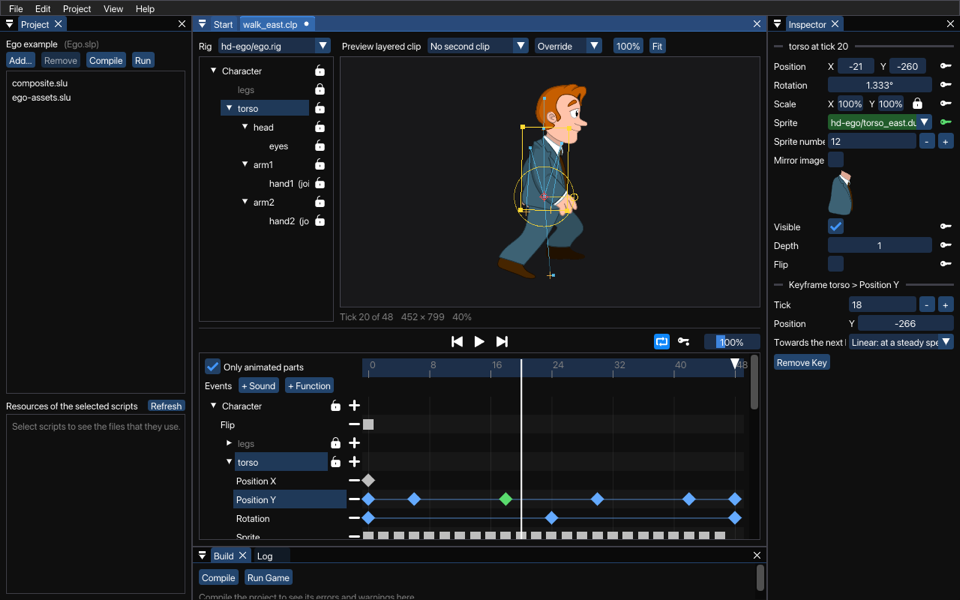
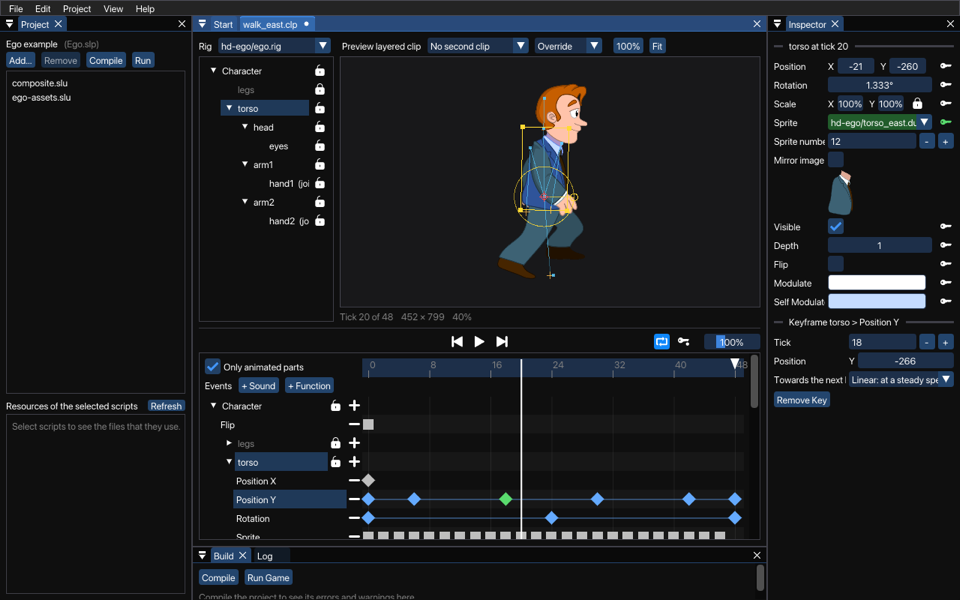
Document the colours of parts
The constants, clipKey, setPartProperty, Composite Characters and both
editors' pages describe Modulate and Self Modulate; the editors' pictures
are taken again, the animation editor's with a tinted torso.

Changed region(s): [[0.7812, 0.45, 1.0, 0.69], [0.5625, 0.21, 0.5938, 0.3], [0.5312, 0.3, 0.5938, 0.36]]

diff --git a/doc/SLUDGEDevKitHelp/About_the_SLUDGE_Animation_Editor.html b/doc/SLUDGEDevKitHelp/About_the_SLUDGE_Animation_Editor.html
@@ -45,7 +45,7 @@ The tracks are in the order of the rig's parts, each part under the part it is a
 </P>
 
 <P>
-The plus by a part adds a track to it: Position (a track for X and one for Y), Rotation, Scale (a track for X and one for Y), Sprite, Visible, Depth or Flip. The minus by a track removes it, with its keys. Clips made by scripts may have a Scale (both) track, which scales X and Y together (PART_SCALE of <a href="clipKey.html">clipKey</a>); the editor keeps it, and you can edit its keys.
+The plus by a part adds a track to it: Position (a track for X and one for Y), Rotation, Scale (a track for X and one for Y), Sprite, Visible, Depth, Flip, Modulate or Self Modulate. Modulate and Self Modulate each show as one row, whose keys are filled with their colour: underneath, they are a track each for red, green, blue and alpha (PART_MODULATE_R and so on, of <a href="clipKey.html">clipKey</a>), which the row keys, moves, copies and removes together. The minus by a track removes it, with its keys. Clips made by scripts may have a Scale (both) track, which scales X and Y together (PART_SCALE of <a href="clipKey.html">clipKey</a>); the editor keeps it, and you can edit its keys.
 </P>
 
 <P>
@@ -55,7 +55,7 @@ Tracks of parts that the rig doesn't have are at the end, in orange. They do not
 <H3>Keying a part</H3>
 
 <P>
-Put the playhead where you want a key, and select the part. The Inspector shows what of it you can key, as the clip has it at the playhead: Position, Rotation, Scale, Sprite, Visible, Depth and Flip. Where the clip doesn't key something, it is as in the rig: the part shows its own sprite, for example. Changing these never changes the rig itself.
+Put the playhead where you want a key, and select the part. The Inspector shows what of it you can key, as the clip has it at the playhead: Position, Rotation, Scale, Sprite, Visible, Depth, Flip, Modulate and Self Modulate. Click a colour to change it; its key button keys all four of its components (see the <a href="About_the_SLUDGE_Character_Creator.html">Character Creator</a> for what the colours do). Where the clip doesn't key something, it is as in the rig: the part shows its own sprite, for example. Changing these never changes the rig itself.
 </P>
 
 <P>
@@ -98,7 +98,7 @@ Click the name of a track to make it the current one, and press K to key it at t
 <H3>Values and easing</H3>
 
 <P>
-Below the selected part, the Inspector shows the selected key, under Keyframe and its part and property: its tick, its value and, for position, rotation and scale, its easing. The easing says how the value goes from this key to the next one: Step holds it until the next key, Linear goes at a steady speed, and In and out starts and ends slowly. The colours of the keys show their easing, and so do the lines between them: grey for Step, blue for Linear, and pink for In and out. Sprite, visibility, depth and flip keys always step.
+Below the selected part, the Inspector shows the selected key, under Keyframe and its part and property: its tick, its value and, for position, rotation, scale and the colours, its easing. The easing says how the value goes from this key to the next one: Step holds it until the next key, Linear goes at a steady speed, and In and out starts and ends slowly. The colours of the keys show their easing, and so do the lines between them: grey for Step, blue for Linear, and pink for In and out. Sprite, visibility, depth and flip keys always step.
 </P>
 
 <H3>Sprite keys</H3>

diff --git a/doc/SLUDGEDevKitHelp/clipKey.html b/doc/SLUDGEDevKitHelp/clipKey.html
@@ -33,6 +33,8 @@ Properties you can change:
 <LI><b>PART_DEPTH</b>: The order of drawing relative to other parts. For example, to draw an arm behind its body. (see <a href="setPartDepth.html">setPartDepth</a>)</LI>
 <LI><b>PART_VISIBLE</b>: Set visibility to TRUE or FALSE. FALSE hides the part and the parts attached to it.</LI>
 <LI><b>PART_FLIP</b>: TRUE mirrors the part, and the parts attached to it.</LI>
+<LI><b>PART_MODULATE_R</b>, <b>PART_MODULATE_G</b>, <b>PART_MODULATE_B</b>, <b>PART_MODULATE_A</b>: The red, green, blue and alpha (opacity) of the part and the parts attached to it, in percent, from 0 to 200. 100 leaves the sprite as it is, lower darkens, tints or fades it, and higher brightens it. A part's colour is multiplied by the colours of the parts it is attached to.</LI>
+<LI><b>PART_SELF_MODULATE_R</b>, <b>PART_SELF_MODULATE_G</b>, <b>PART_SELF_MODULATE_B</b>, <b>PART_SELF_MODULATE_A</b>: The same, for the part only: the parts attached to it don't get it.</LI>
 </UL>
 </P>
 

diff --git a/doc/SLUDGEDevKitHelp/setPartProperty.html b/doc/SLUDGEDevKitHelp/setPartProperty.html
@@ -23,7 +23,7 @@ Sets a <i>property</i> of a <i>part</i> of <i>character</i> directly from your s
 </P>
 
 <P>
-The properties and their units are those of <a href="clipKey.html">clipKey</a>: PART_X, PART_Y, PART_ROTATION, PART_SCALE, PART_SCALE_X and PART_SCALE_Y (in percent), PART_DEPTH, PART_VISIBLE and PART_FLIP. Sprites can't be set this way; play a clip with <a href="clipSprite.html">clipSprite</a> on a layer instead (see <a href="playClip.html">playClip</a>).
+The properties and their units are those of <a href="clipKey.html">clipKey</a>: PART_X, PART_Y, PART_ROTATION, PART_SCALE, PART_SCALE_X and PART_SCALE_Y (in percent), PART_DEPTH, PART_VISIBLE, PART_FLIP, and the R, G, B and A of PART_MODULATE and PART_SELF_MODULATE (in percent, from 0 to 200). Sprites can't be set this way; play a clip with <a href="clipSprite.html">clipSprite</a> on a layer instead (see <a href="playClip.html">playClip</a>).
 </P>
 
 <P>

diff --git a/doc/SLUDGEDevKitHelp/Composite_Characters.html b/doc/SLUDGEDevKitHelp/Composite_Characters.html
@@ -35,6 +35,10 @@ A composite character works like any other character. The mouse is over it when 
 </P>
 
 <P>
+Each part can also have a colour of its own, which the game multiplies its sprite by, over the character's light, colourise and transparency: <b>Modulate</b>, which the parts attached to it get too, multiplied by their own, and <b>Self Modulate</b>, for the part only. Each has a red, green, blue and alpha (opacity), from 0 to 200%; 100% leaves the sprite as it is. Rigs and clips can set them, and scripts with <a href="clipKey.html">clipKey</a> and <a href="setPartProperty.html">setPartProperty</a>.
+</P>
+
+<P>
 With RECTANGULAR (see <a href="setCharacterExtra.html">setCharacterExtra</a>), SLUDGE puts an invisible box around all the parts together, and the mouse is over the character anywhere inside that box.
 </P>
 

diff --git a/doc/SLUDGEDevKitHelp/Built-in_Constants.html b/doc/SLUDGEDevKitHelp/Built-in_Constants.html
@@ -305,7 +305,9 @@ For <a href="clipKey.html">clipKey</a>: the properties of a part, and how they m
 </P>
 
 <P>
-<B>PART_X</B> = 0, <B>PART_Y</B> = 1, <B>PART_ROTATION</B> = 2, <B>PART_SCALE</B> = 3, <B>PART_VISIBLE</B> = 5, <B>PART_DEPTH</B> = 6, <B>PART_FLIP</B> = 7, <B>PART_SCALE_X</B> = 8, <B>PART_SCALE_Y</B> = 9
+<B>PART_X</B> = 0, <B>PART_Y</B> = 1, <B>PART_ROTATION</B> = 2, <B>PART_SCALE</B> = 3, <B>PART_VISIBLE</B> = 5, <B>PART_DEPTH</B> = 6, <B>PART_FLIP</B> = 7, <B>PART_SCALE_X</B> = 8, <B>PART_SCALE_Y</B> = 9,
+<B>PART_MODULATE_R</B> = 10, <B>PART_MODULATE_G</B> = 11, <B>PART_MODULATE_B</B> = 12, <B>PART_MODULATE_A</B> = 13,
+<B>PART_SELF_MODULATE_R</B> = 14, <B>PART_SELF_MODULATE_G</B> = 15, <B>PART_SELF_MODULATE_B</B> = 16, <B>PART_SELF_MODULATE_A</B> = 17
 </P>
 
 <P>

diff --git a/doc/SLUDGEDevKitHelp/About_the_SLUDGE_Character_Creator.html b/doc/SLUDGEDevKitHelp/About_the_SLUDGE_Character_Creator.html
@@ -95,6 +95,10 @@ Flip mirrors the part, and the parts attached to it. When Visible is off, the pa
 </P>
 
 <P>
+Modulate and Self Modulate give a part a colour: click either to choose it, with its red, green, blue and alpha (opacity) in percent, from 0 to 200%. White, 100% of each, leaves the sprite as it is; lower darkens, tints or fades it, and higher brightens it. Modulate colours the part and the parts attached to it, multiplied by their own; Self Modulate colours the part only, so a tinted body can have untinted arms. Clips can key both (see the <a href="About_the_SLUDGE_Animation_Editor.html">Animation Editor</a>).
+</P>
+
+<P>
 In the picture, positions snap to whole pixels, rotations to whole degrees and scales to whole percents. Type other values in the Inspector.
 </P>
 
